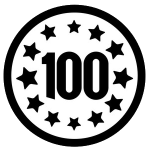
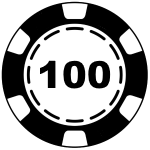
style coin button

diff --git a/frontend/src/main/resources/ch/supsi/blackjack/css/style.css b/frontend/src/main/resources/ch/supsi/blackjack/css/style.css
@@ -27,25 +27,59 @@
     -fx-icon-code: fa-question;
 }
 
+.commands-area {
+    -fx-background-color: rgba(0,0,0,0.3);
+    -fx-border-color: #cbcb2a;
+    -fx-alignment: center;
+    -fx-border-radius: 10;
+    -fx-background-radius: 10;
+    -fx-padding: 0 0 10 0;
+}
+
+.rules {
+    -fx-background-color: rgba(0,0,0,0.3);
+    -fx-border-color: #cbcb2a;
+    -fx-alignment: center;
+    -fx-border-radius: 10;
+    -fx-background-radius: 10;
+}
+
+.dealer-rule {
+    -fx-text-fill: black;
+    -fx-font-size: 15;
+}
+
+
 .cards-table {
-    -fx-padding: 5;
+    -fx-padding: 10;
+    -fx-spacing: 20;
     -fx-background-image: url("../images/table.png");
     /*-fx-effect: dropshadow(three-pass-box, black, 30, 0.5, 0, 0);*/
 }
 
-.labels {
+.label {
     -fx-text-fill: white;
     -fx-font-size: 14;
 }
 
+.labelStrong {
+    -fx-text-fill: #cbcb2a;
+    -fx-font-size: 22;
+    -fx-font-weight: bold;
+}
+
+.player-info {
+    /*-fx-border-color: #cbcb2a;*/
+}
+
 .cards-view
 {
+    /*-fx-border-color: #cbcb2a;*/
     -fx-background-color: transparent;
     /*-fx-border-color: black;*/
     /*-fx-border-width: 1;*/
     /*-fx-padding: 5;*/
-    -fx-spacing: 5;
-    -fx-padding: 0;
+    /*-fx-spacing: 5;*/
 }
 
 .coin {
@@ -63,13 +97,10 @@
     /*-fx-padding: 5;*/
     -fx-spacing: 5;
     -fx-padding: 0;
+    -fx-alignment: center;
 }
 
 .list-cell {
     -fx-background-color: transparent;
-    -fx-padding: 0;
-}
-
-.list-view {
-    -fx-background-color: transparent;
+    -fx-spacing: 5;
 }

diff --git a/frontend/src/main/java/ch/supsi/blackjack/controller/ContentAreaController.java b/frontend/src/main/java/ch/supsi/blackjack/controller/ContentAreaController.java
@@ -21,6 +21,7 @@ public class ContentAreaController extends AbstractController implements Initial
 
     @FXML public ListView<CardImage> dealerCards;
     @FXML public Label betsAmount;
+    @FXML public Label playerHand;
     @FXML private ListView<CoinImage> coins;
     @FXML private ListView<CardImage> playerCards;
     @FXML private TextArea textArea;
@@ -137,7 +138,7 @@ public class ContentAreaController extends AbstractController implements Initial
     }
 
     private void handleNewHand(NewHandEvent event) {
-        textArea.appendText(event.getHand().toString() + "\n");
+        playerHand.setText(String.valueOf(event.getHand().value()) );
     }
 
     private void handleNewCard(NewCardEvent event) {

diff --git a/backend/src/main/java/ch/supsi/blackjack/model/Model.java b/backend/src/main/java/ch/supsi/blackjack/model/Model.java
@@ -30,7 +30,7 @@ public class Model extends AbstractModel {
     private final BooleanProperty betConfirmed = new SimpleBooleanProperty(false);
     // updated by model  - indicates that the user chose to stand
     private final BooleanProperty playerStand = new SimpleBooleanProperty(false);
-    private Coin[] coins = {new Coin(1),new Coin(2),new Coin(5), new Coin(10),new Coin(15),new Coin(25),new Coin(50),new Coin(100)};
+    private Coin[] coins = {new Coin(100),new Coin(200),new Coin(300), new Coin(400),new Coin(500)};
 
     protected Model() {
         super();
